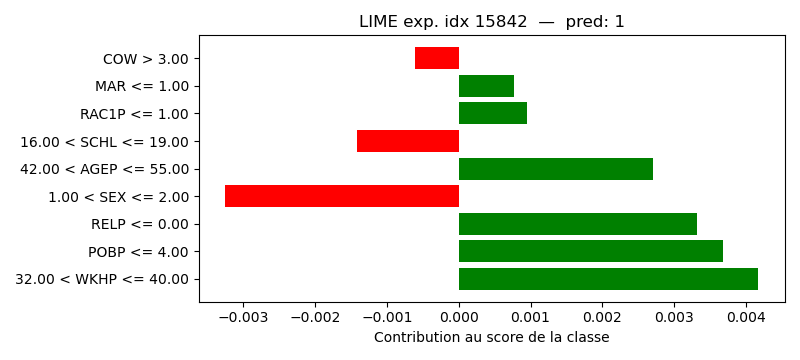
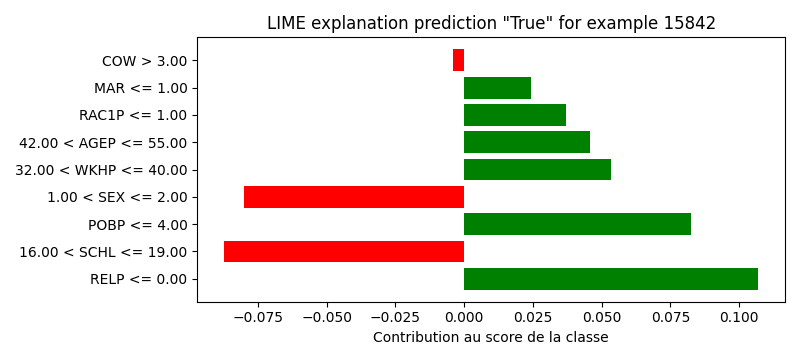
fix shap et clean outputs

diff --git a/main.py b/main.py
@@ -9,6 +9,7 @@ from lime.lime_tabular import LimeTabularExplainer
 import shap
 import time
 import os
+import warnings
 
 
 def _pobp_to_continent(code):
@@ -161,7 +162,7 @@ def train_model_default(classifier, X_train, y_train, X_test, y_test):
     matrix = pd.crosstab(y_test.values.ravel(), preds, rownames=['Actual'], colnames=['Predicted'])
 
     print(f"Accuracy of {classifier.__class__.__name__}: {round(100*accuracy, 2)}% (MSE: {round(mse, 4)})")
-    print(f"Training time: {round(t1 - t0, 3)} seconds")
+    print(f"Training time: {round(t1 - t0, 3)} seconds\n")
     print(matrix)
     print()
     return model
@@ -182,13 +183,16 @@ def evaluate_with_cross_validation(classifier, X, y, n_fold=5):
 def permutation_feature_importance(model, X_test, y_test, n_repeats=50):
     result = permutation_importance(model, X_test, y_test, n_repeats=n_repeats, n_jobs=-1)
 
-    importance_df = pd.DataFrame({'Feature': X_test.columns, 'Importance Mean': result.importances_mean, 'Importance Std': result.importances_std})
+    importance_df = pd.DataFrame({'Feature': X_test.columns,
+                                  'Importance Mean': result.importances_mean,
+                                  'Importance Std': result.importances_std
+                                  })
     importance_df = importance_df.sort_values(by='Importance Mean', ascending=False)
-    print("Permutation Feature Importance:")
+    print("\nPermutation Feature Importance:\n")
     print(importance_df)
     print()
 
-    importance_df = importance_df.sort_values(by='Importance Mean', ascending=False)
+    importance_df = importance_df.sort_values(by='Importance Mean', ascending=True)
     _, ax = plt.subplots(figsize=(10, max(4, 0.35 * len(importance_df))))
     ax.barh(importance_df['Feature'], importance_df['Importance Mean'],
             xerr=importance_df['Importance Std'],
@@ -201,97 +205,72 @@ def permutation_feature_importance(model, X_test, y_test, n_repeats=50):
     filename = 'plots/permutation_importance.png'
     plt.savefig(filename)
     plt.close()
+    print(f'Saved as "{filename}"\n')
 
 
-def visualize_lime_explanations(model, X_train, X_test, y_train, n_instances=5, num_features=10):
+def visualize_lime_explanations(model, X_train, X_test, y_train, examples):
     explainer = LimeTabularExplainer(
         training_data=X_train.values,
         feature_names=X_train.columns.tolist(),
         class_names=y_train.values.ravel()
     )
 
-    rng = np.random.RandomState(42)
-    examples = rng.choice(range(X_test.shape[0]), size=n_instances, replace=False)
-
+    print('\nLIME explanation:\n')
     for i in examples:
         instance = X_test.iloc[i].values
         pred = model.predict([instance])[0]
-        explanation = explainer.explain_instance(instance, model.predict_proba, num_features=num_features).as_list()
 
+        explanation = explainer.explain_instance(instance, model.predict_proba).as_list()
+ 
         df_explanation = pd.DataFrame({'feature': [t[0] for t in explanation], 'weight': [t[1] for t in explanation]})
 
         _, ax = plt.subplots(figsize=(8, max(3, 0.4 * len(df_explanation))))
         colors = ['green' if v > 0 else 'red' for v in df_explanation['weight']]
 
         ax.barh(df_explanation['feature'], df_explanation['weight'], color=colors)
-        ax.set_title(f'LIME exp. idx {i}  —  pred: {pred}')
+        ax.set_title(f'LIME explanation prediction "{bool(pred)}" for example {i}')
         ax.set_xlabel('Contribution au score de la classe')
         plt.tight_layout()
 
         png_path = f'plots/lime/explanation_idx{i}.png'
         plt.savefig(png_path)
         plt.close()
+        print(f'Saved as "{png_path}"')
+
+    print()
 
 
-def visualize_shap_explanations(model, X_train, X_test, n_instances=5, max_display=10):
-    rng = np.random.RandomState(42)
-    idxs = rng.choice(range(X_test.shape[0]), size=n_instances, replace=False)
+def visualize_shap_explanations(model, X_train, X_test, examples):
+    explainer = shap.TreeExplainer(model)
 
-    # Choix de l'explainer : TreeExplainer si possible (rapide pour modèles d'arbres)
-    try:
-        explainer = shap.TreeExplainer(model)
-    except Exception:
-        # fallback : Explainer avec background (peut être plus lent)
-        try:
-            explainer = shap.Explainer(model, X_train)
-        except Exception:
-            print("Impossible d'initialiser un Explainer SHAP pour ce modèle.")
-            return
+    subset = X_test.iloc[examples]
+    shap_values = explainer(subset)
 
-    # Calcul des valeurs SHAP pour le sous-ensemble sélectionné
-    subset = X_test.iloc[idxs]
-    try:
-        shap_values = explainer(subset)
-    except Exception:
-        shap_values = explainer(subset)  # tentative de secours (certaines versions d'API se comportent différemment)
+    print('\nSHAP explanation:\n')
 
-    # Summary plot (moyenne des importances absolues) pour le sous-ensemble
-    try:
-        plt.figure(figsize=(10, max(4, 0.3 * X_test.shape[1])))
-        shap.plots.bar(shap_values, max_display=max_display, show=False)
-        summary_path = 'plots/shap/summary_bar.png'
+    # Summary plot 
+    plt.figure(figsize=(10, max(4, 0.3 * X_test.shape[1])))
+    shap.plots.bar(shap_values, show=False)
+    summary_path = 'plots/shap/summary_bar.png'
+    plt.tight_layout()
+    plt.savefig(summary_path)
+    plt.close()
+    print(f'Saved summary as "{summary_path}"')
+
+
+    # Waterfall plot par instance
+    for k, idx in enumerate(examples):
+        plt.figure(figsize=(8, 6))
+        shap.plots.waterfall(shap_values[k], show=False)
+
+        png_path = f'plots/shap/waterfall_idx{idx}.png'
         plt.tight_layout()
-        plt.savefig(summary_path)
+        plt.savefig(png_path)
         plt.close()
-        print(f"Saved {summary_path}")
-    except Exception as e:
-        print("Échec création summary SHAP :", e)
+        print(f'Saved as "{png_path}"')
 
-    # Waterfall (ou force) plot par instance
-    for k, idx in enumerate(idxs):
-        try:
-            # shap_values[k] est une explication pour l'instance k du subset
-            plt.figure(figsize=(8, 6))
-            # Utiliser waterfall si disponible
-            try:
-                shap.plots.waterfall(shap_values[k], show=False)
-            except Exception:
-                # fallback : bar plot des contributions (valeurs SHAP)
-                vals = shap_values.values[k]
-                feat = X_test.columns
-                df = pd.DataFrame({'feature': feat, 'shap': vals})
-                df = df.reindex(df['shap'].abs().sort_values(ascending=False).index)[:max_display]
-                colors = ['green' if v >= 0 else 'red' for v in df['shap']]
-                plt.barh(df['feature'][::-1], df['shap'][::-1], color=colors[::-1])
-                plt.xlabel('Valeur SHAP')
-                plt.title(f'SHAP contributions idx {idx}')
-            png_path = f'plots/shap/waterfall_idx{idx}.png'
-            plt.tight_layout()
-            plt.savefig(png_path)
-            plt.close()
-            print(f"Saved {png_path}")
-        except Exception as e:
-            print(f"Échec SHAP pour l'instance idx {idx} :", e)
+    print()
+
 
 
 if __name__ == "__main__":
@@ -302,13 +281,13 @@ if __name__ == "__main__":
 
     df = pd.concat([df_features, df_labels], axis=1)
 
-    print("Training dataset size :", X_train.shape[0])
+    print("\nTraining dataset size :", X_train.shape[0])
     print("Test dataset size :", X_test.shape[0])
+    print()
+
 
     y_train = pre_process_labels(y_train)
     y_test = pre_process_labels(y_test)
-
-    # print("Before pre-processing:\n")
 
     # # evaluate_with_cross_validation(RandomForestClassifier(), X_train, y_train)
     # train_model_default(RandomForestClassifier(), X_train, y_train, X_test, y_test)
@@ -320,25 +299,29 @@ if __name__ == "__main__":
     # train_model_default(AdaBoostClassifier(), X_train, y_train, X_test, y_test)
 
 
-
+    print("\nWith pre-processing:\n")
     X_train = pre_process_features(X_train)
     X_test = pre_process_features(X_test)
 
-
-    # print("\nAfter pre-processing:\n")
-
     # evaluate_with_cross_validation(RandomForestClassifier(), X_train, y_train)
-    # train_model_default(RandomForestClassifier(), X_train, y_train, X_test, y_test)
+    # model = train_model_default(RandomForestClassifier(), X_train, y_train, X_test, y_test)
 
     # # evaluate_with_cross_validation(GradientBoostingClassifier(), X_train, y_train)
-    # train_model_default(GradientBoostingClassifier(), X_train, y_train, X_test, y_test)
+    model = train_model_default(GradientBoostingClassifier(), X_train, y_train, X_test, y_test)
 
     # evaluate_with_cross_validation(AdaBoostClassifier(), X_train, y_train)
-    model = train_model_default(AdaBoostClassifier(), X_train, y_train, X_test, y_test)
+    # model = train_model_default(AdaBoostClassifier(), X_train, y_train, X_test, y_test)
 
-    # permutation_feature_importance(model, X_test, y_test)
 
-    visualize_lime_explanations(model, X_train, X_test, y_train, n_instances=5, num_features=10)
+    # Explanations
 
-    # Ajout : sauvegarde explications SHAP
-    visualize_shap_explanations(model, X_train, X_test, n_instances=5, max_display=10)
+    permutation_feature_importance(model, X_test, y_test)
+
+    # Generate random examples to explain
+    rng = np.random.RandomState(42)  # To get reproducible results
+    examples = rng.choice(range(X_test.shape[0]), size=10, replace=False)
+
+    warnings.filterwarnings("ignore", message="X does not have valid feature names")
+
+    visualize_lime_explanations(model, X_train, X_test, y_train, examples)
+    visualize_shap_explanations(model, X_train, X_test, examples)  # Only works with GradientBoosting
